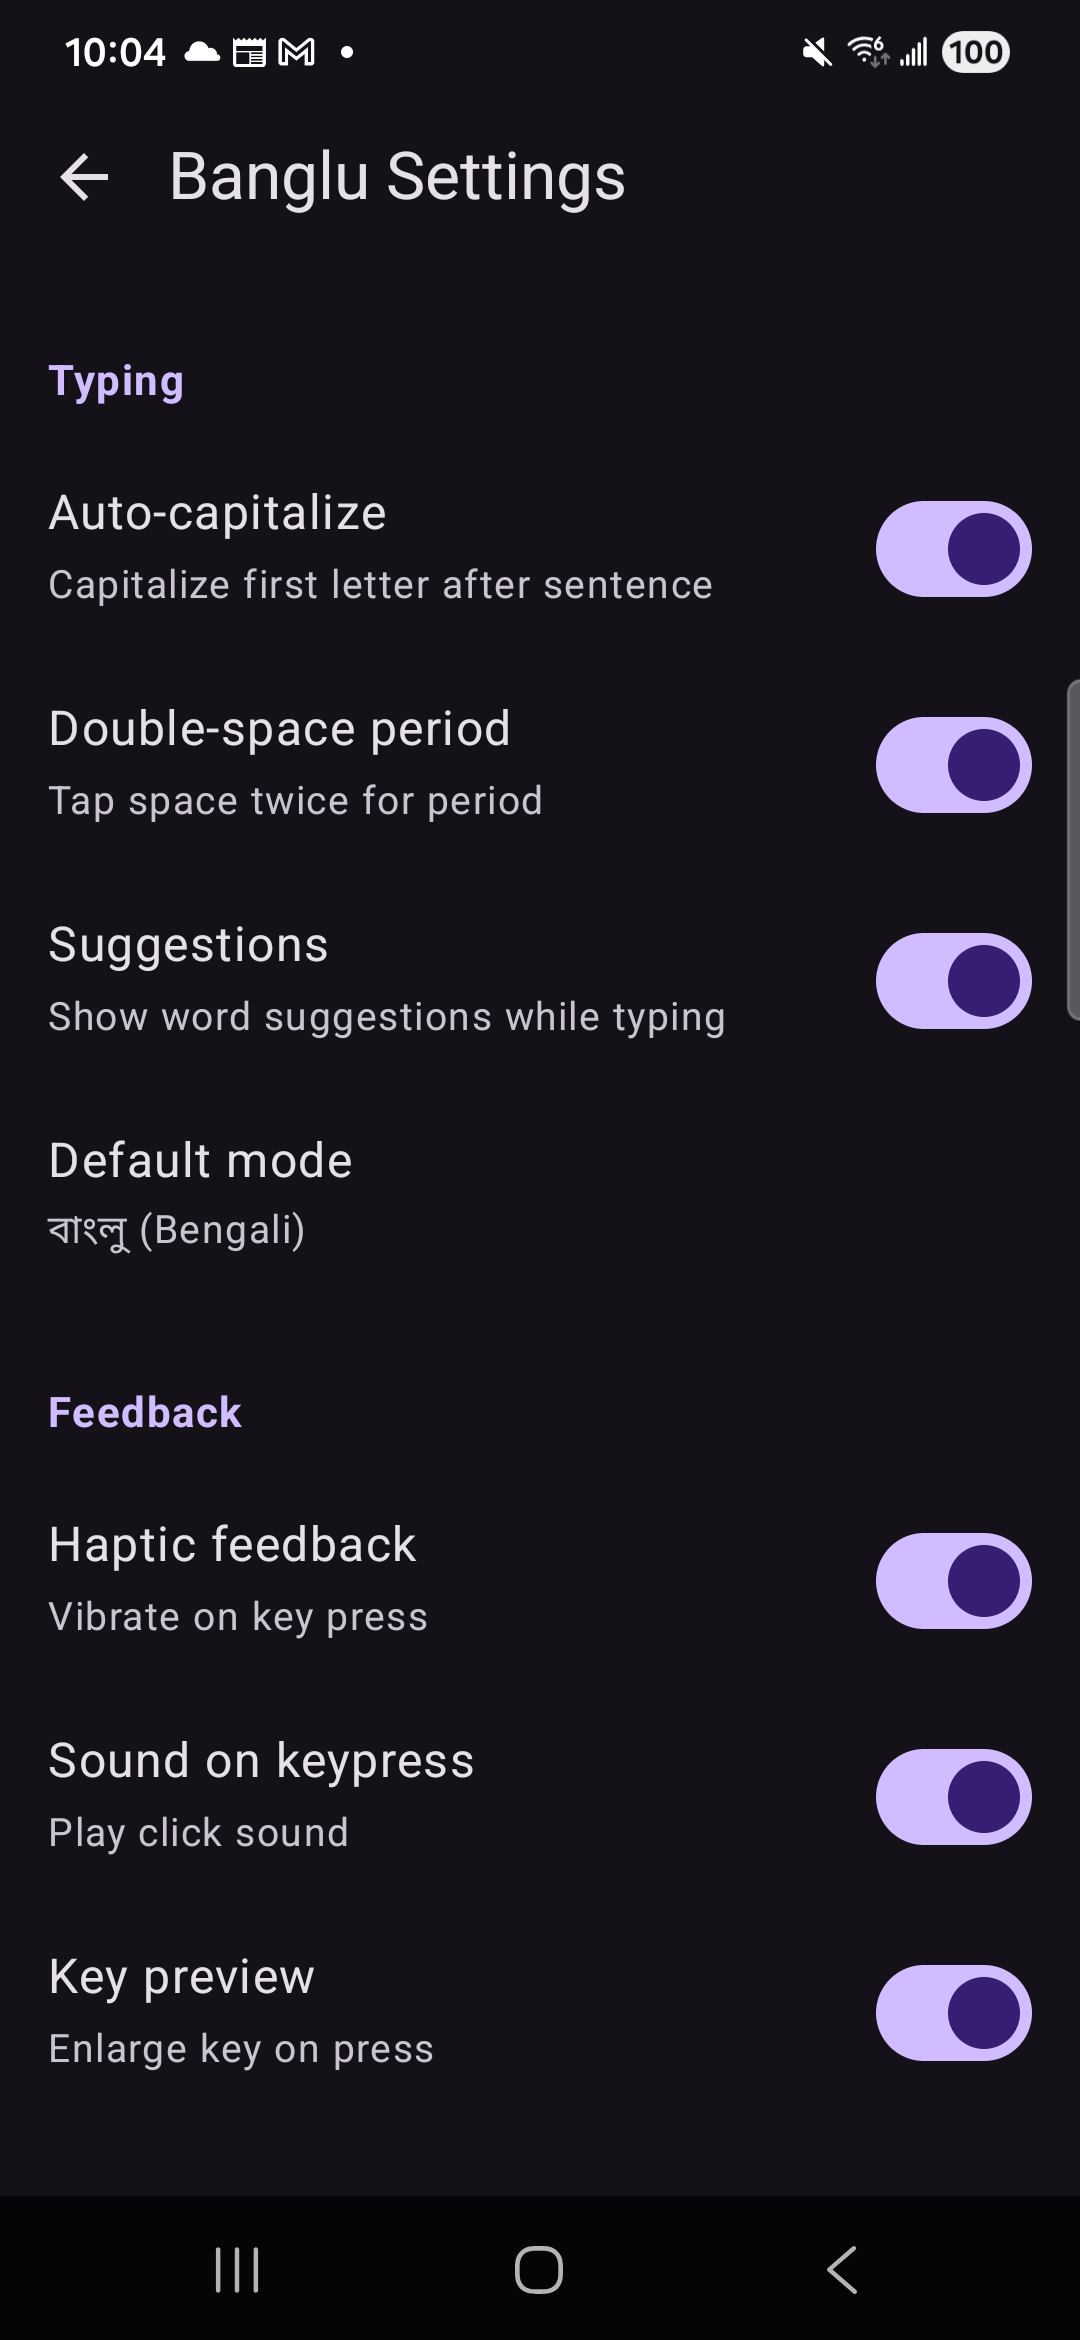
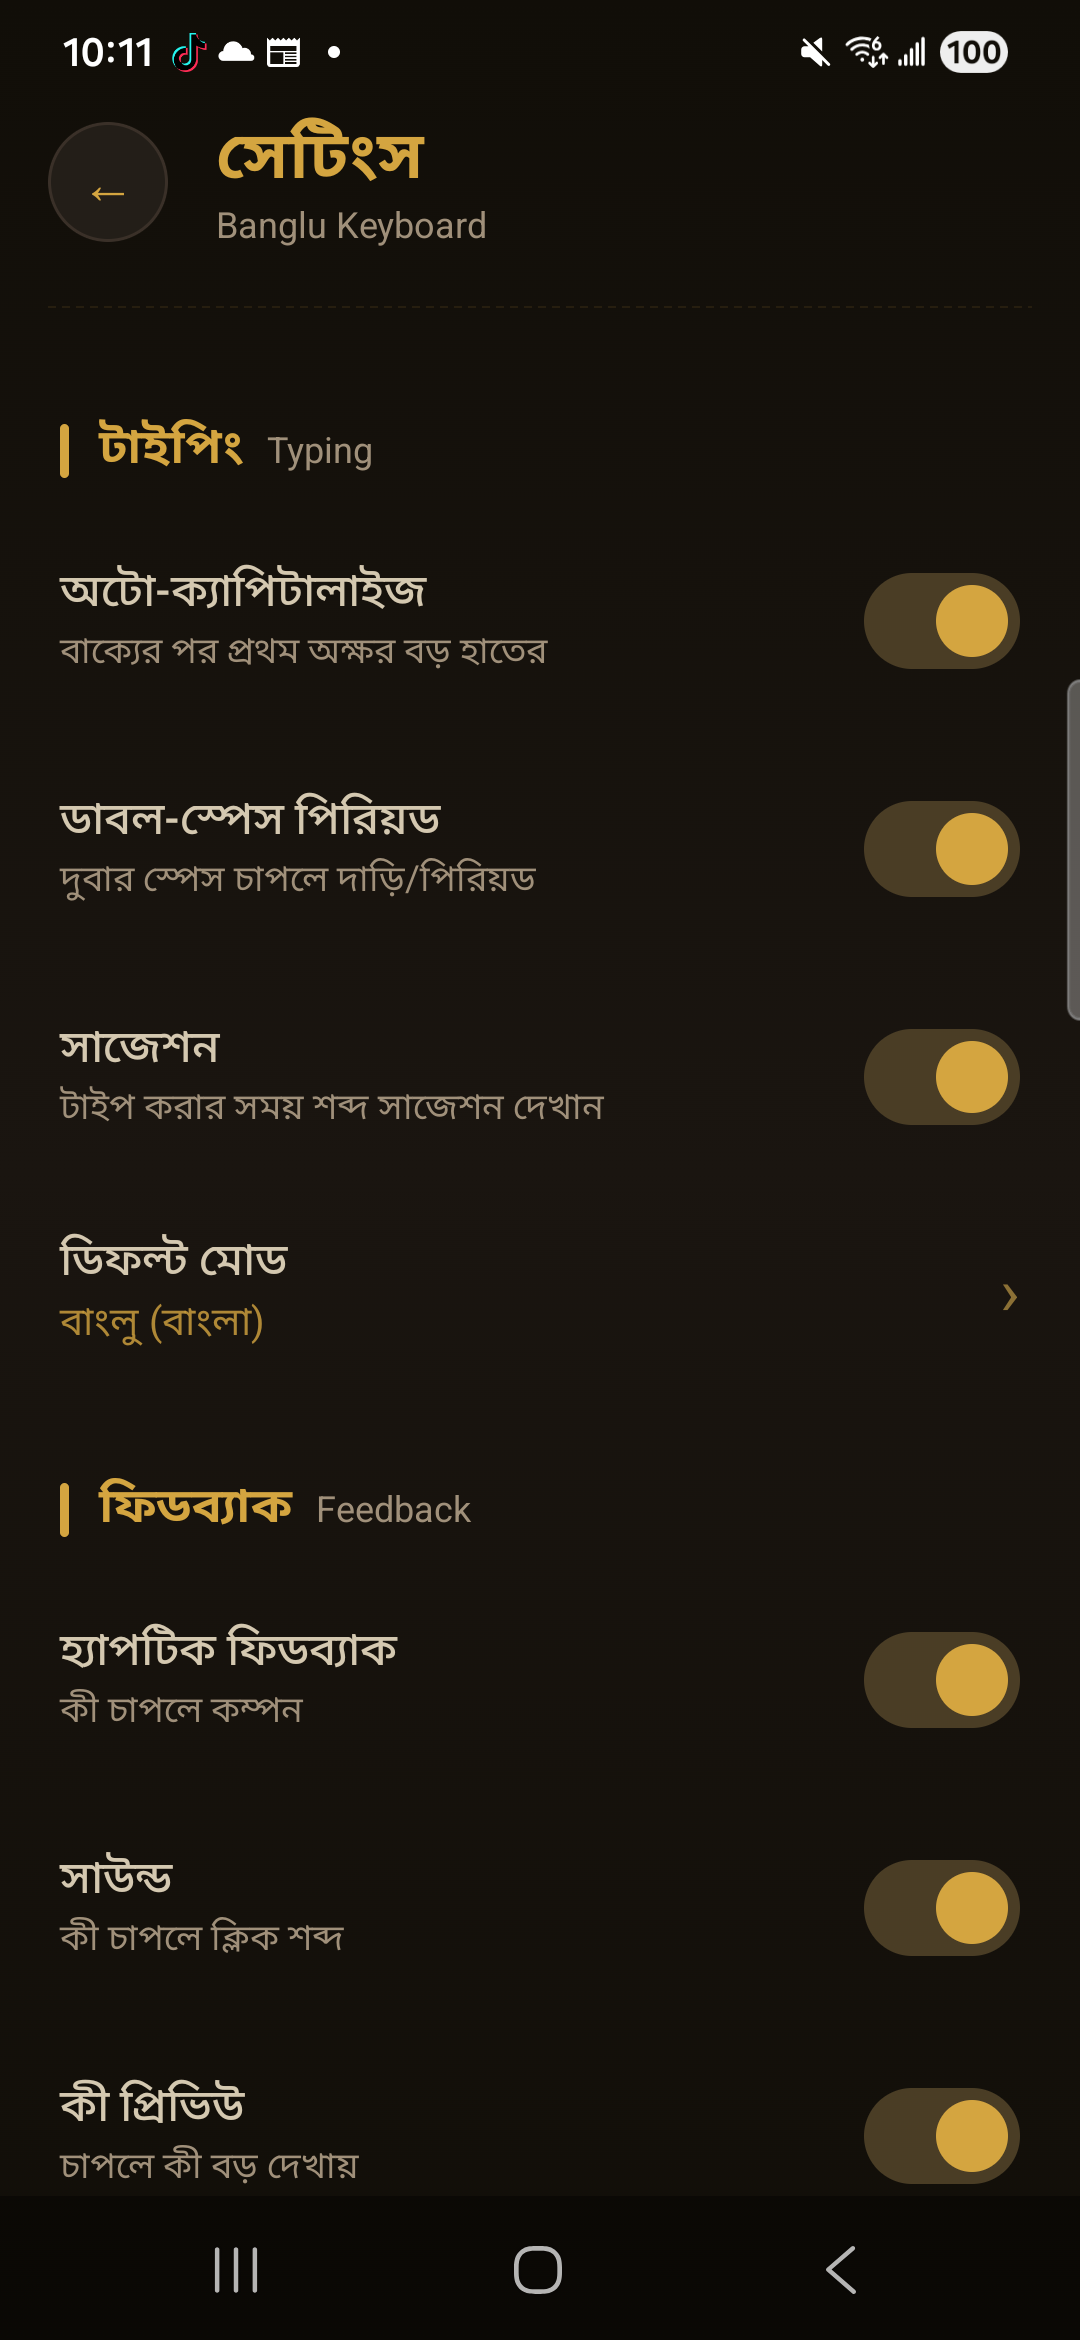
feat: major sync — 10K seed entries + consonant rules + dictionary update
- Synced 8,712 new seed entries + 2,089 frequency updates from web
  (KMP seed: 6,770 → 15,482 entries)
- Added consonant filtering rules (s→স, d→দ, t→ত, v→ভ, j→জ, z→য, sh→শ)
- Removed v→bh normalization from SmartDictionary
- Recompiled dictionary.sqlite with latest web data
- 48/50 words match web engine (96%) in seed-only mode
- 202 tests passing

diff --git a/shared/src/commonTest/kotlin/com/banglu/engine/CompareOutputTest.kt b/shared/src/commonTest/kotlin/com/banglu/engine/CompareOutputTest.kt
@@ -1,0 +1,16 @@
+package com.banglu.engine
+
+import kotlin.test.Test
+
+class CompareOutputTest {
+    @Test
+    fun compareWords() {
+        val engine = SmartEngine()
+        engine.initializeSync()
+        val words = listOf("ami","tumi","apni","se","bangladesh","bhalo","khabar","sundor","tui","er","jonyo","ekti","aponar","du","karon","kono","upor","holo","aro","moto","por","proshno","ortho","bondho","modhyo","sotto","matro","ekhon","kintu","ar","tai","din","sorokar","sob","val","von","zon","dosh","srishti","rashtra","biswas","gota","korbo","korlo","chhilo","keno","otyadhunik","byapar","tothyo","shahajyo")
+        for (w in words) {
+            val r = engine.convertWord(w)
+            println("$w|${r.bengali}")
+        }
+    }
+}